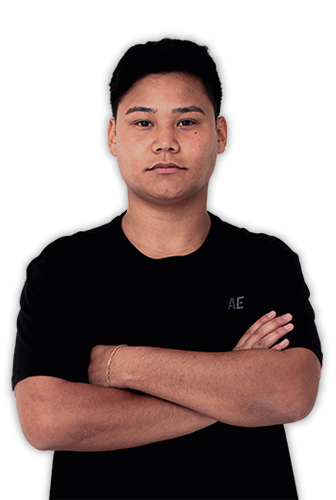
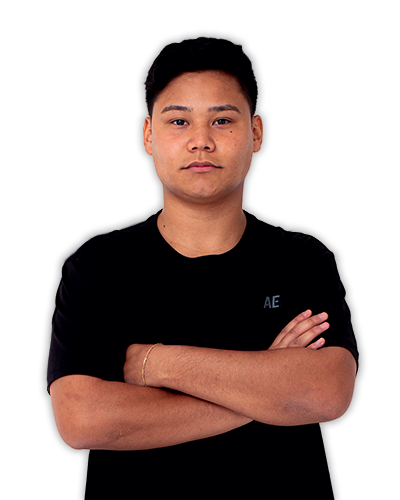
fix: Resolução imgs

diff --git a/css/estilo.css b/css/estilo.css
@@ -499,31 +499,36 @@ td.glow2:after{
 }
 
 .header-time-a{
-	margin-left: -30px;  /* MARGEM DE TRANSPOSICAO DAS IMAGENS */
+	margin-left: -70px;  /* MARGEM DE TRANSPOSICAO DAS IMAGENS */
 	position: relative;
 }
 .marginleft-0px{
 	margin-left: 0px;
 }
 .player-name{
-	padding: 0 0 30px 0 !important;
-	margin-top: 30px !important;
+	padding: 0px 0px 0px 0px !important;
+	margin-bottom: 10px !important;
 	position: relative;
-	top: 0px;
+	top: 4px;
 	text-align: center;
 	transition: all var(--PlayerTransTime);
 	text-indent: 0px !important;
-	--Font-size-playername: 1.75em;
+	--Font-size-playername: 1.25em;
 	font-size: var(--Font-size-playername);
 	-webkit-text-stroke: 0px transparent;
+	margin-left: ;
+}
+.header-time p,a{
+	box-sizing: content-box;
 }
 .header-time-a:hover .player-name {
 	transition: all var(--PlayerTransTime);
 	font-size: calc(var(--Font-size-playername) + 0.15em);
 	color: rgb(20, 73, 73);
-	text-shadow: 1px 1px 1px turquoise, 0px 0px 10px rgba(0,0,0,0.6);
+	text-shadow: 1px 1px 1px rgba(64, 224, 208, 0.508), 0px 0px 10px rgba(0,0,0,0.6);
 	-webkit-font-smoothing: subpixel-antialiased;
 	font-smooth: subpixel-antialiased;
+	top: 0px;
 }
 .header-time-a:hover img {
 	transition: all var(--PlayerTransTime) !important;
@@ -536,14 +541,11 @@ td.glow2:after{
 	transition: all var(--PlayerTransTime);
 	position: relative;
 	height: auto;
-	width: auto;
-	min-height: 170px;
-	/* min-width: 120px; */
-	max-height: 100%;
+	max-height: 400px;
 	max-width: 100%;
 	vertical-align: middle;
 	top: 10px;
-	left: 0;
+	/* left: 0; */
 }
 #kncerato-a{
 	z-index: 1;
